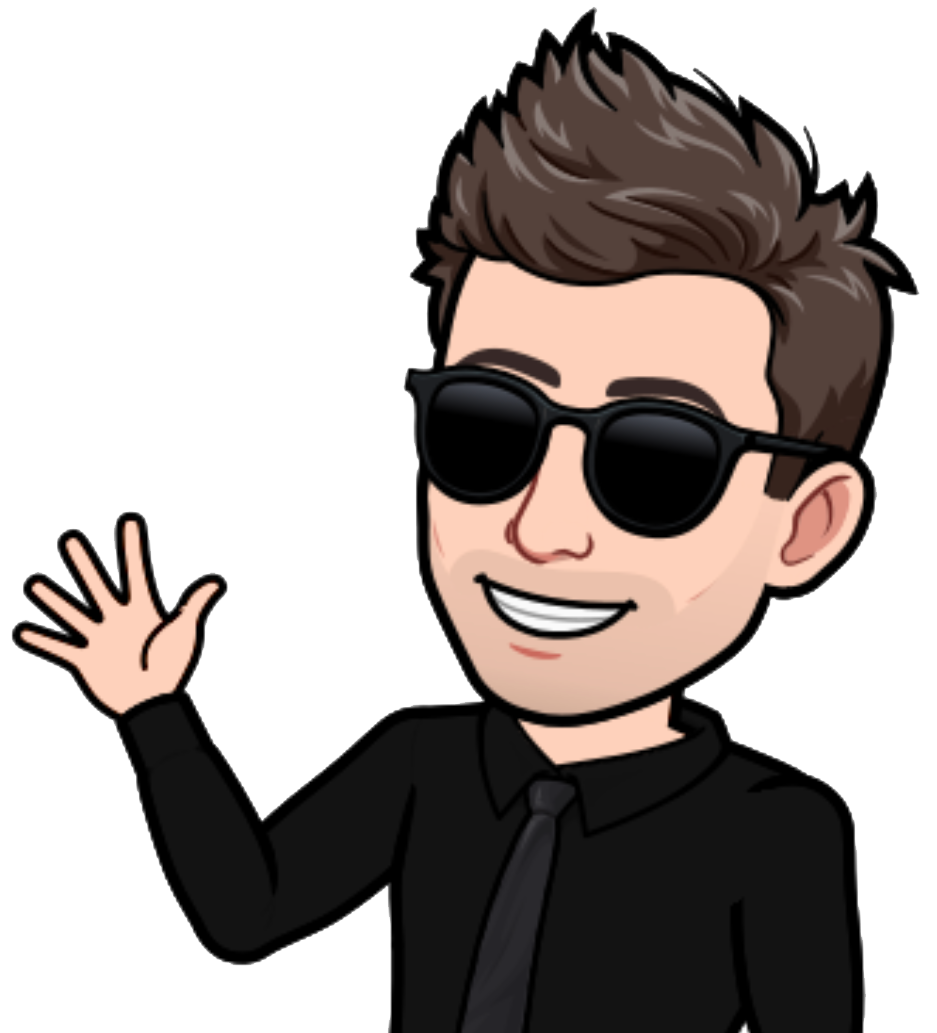
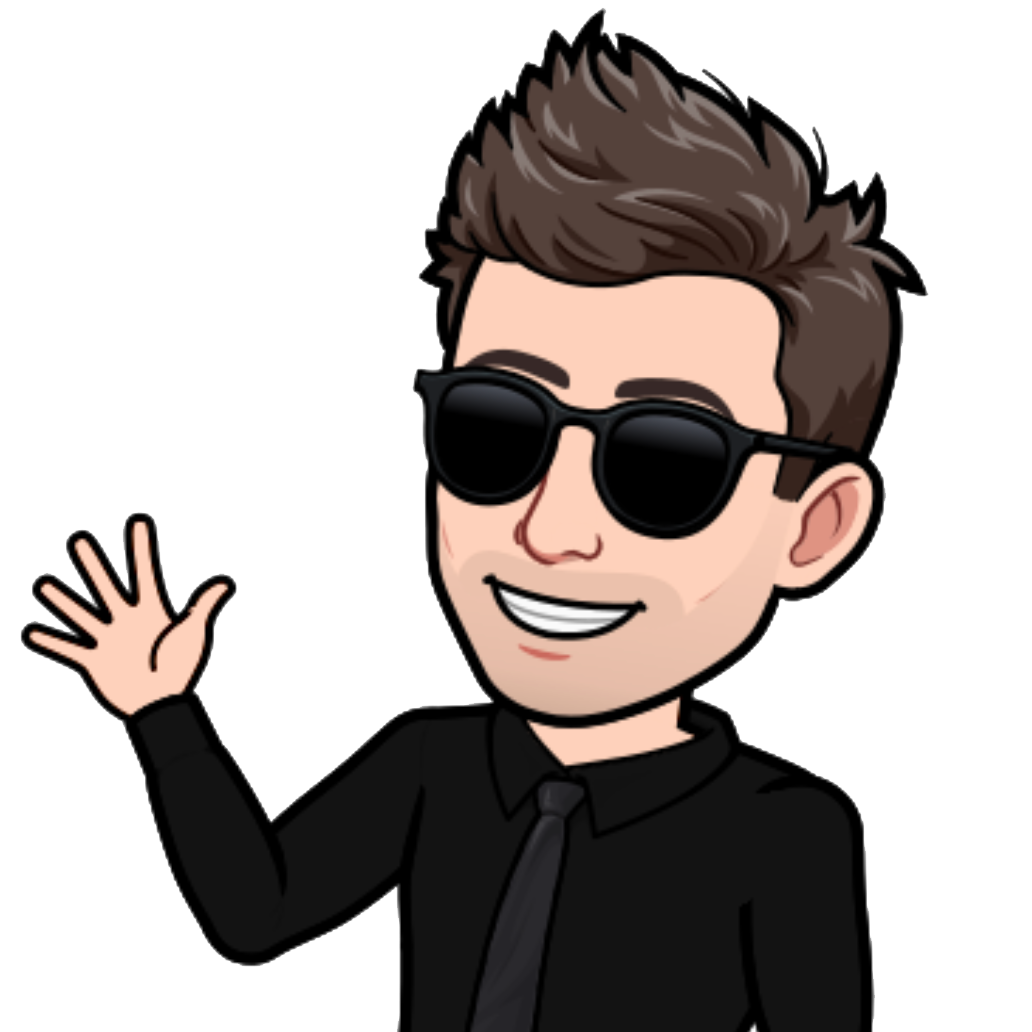
Hero layout

diff --git a/index.html b/index.html
@@ -10,35 +10,37 @@
 
         <title>Joseph Wilde | Front-End Developer</title>
 
+		<link rel="shortcut icon" href="images/jw_favicon.png" />
 		<link rel="stylesheet" href="/dist/style.css" />
 		<script defer src="/dist/script.js"></script>
 	</head>
-	<body class="mainbody">
+	<body>
 		<header>
-			<h1>JW</h1>
+			<a href="#"><h1>JW</h1></a>
 			<nav>
 				<a href="#">Projects</a>
 				<a href="#">Blog</a>
 				<a href="#">Contact</a>
 			</nav>
 		</header>
-		<main class="hero">
-			<section class="hero__personal">
+		<section class="hero">
+			<div class="hero__personal">
 				<h2>Hey, I'm Joe</h2>
 				<p>Quisque arcu velit, luctus ac pellentesque eu, semper quis odio. Morbi ante velit, luctus eu tellus et, ornare mollis elit. Donec interdum, quam eu u----llamcorper volutpat, justo mauris fringilla lectus, at luctus nunc velit viverra nisl. Aenean non nisi quam. Pellentesque habitant morbi tristique senectus et netus et malesuada fames ac turpis egestas. Pellentesque sit amet dolor mollis, porta erat vitae, sollicitudin nunc. Aenean suscipit vitae tortor sit amet bibendum.</p>
-				<div class="hero__personal--socials">
-					<a href="https://github.com/RazeUrWeapon"><img src="images/github_icon.png" alt=""></a>
-					<a href="https://www.linkedin.com/in/joseph-michael1/"><img src="images/linkedin_icon.png" alt=""></a>
-					<a href="https://www.instagram.com/thejosephmichael/"><img src="images/ig_icon.png" alt=""></a>
-					<a href="https://twitter.com/Ra5eUrWeapon"><img src="images/twitter_icon.png" alt=""></a>
-				</div>
-				<div class="hero_perseonal--buttons">
-
-				</div>
-			</section>
-			<section class="hero__image">
-				<img src="images/bitmoji_profile.png" alt="" class="hero__image--bitmoji">
-			</section>
-		</main>
+			</div>
+			<div class="hero__socials">
+				<a href="https://github.com/RazeUrWeapon"><img src="images/github_icon.png" alt=""></a>
+				<a href="https://www.linkedin.com/in/joseph-michael1/"><img src="images/linkedin_icon.png" alt=""></a>
+				<!-- <a href="#"><img src="images/ig_icon.png" alt=""></a> -->
+				<a href="https://twitter.com/Ra5eUrWeapon"><img src="images/twitter_icon.png" alt=""></a>
+			</div>
+			<div class="hero__buttons">
+				<a href="#" class="hero__buttons--projects button-style">My Projects</a>
+				<a href="#" class="hero__buttons--journey button-style">My Coding Journey</a>
+			</div>
+			<div class="hero__image">
+				<img src="images/bitmoji_profile.png" alt="">
+			</div>
+		</section>
 	</body>
 </html>

diff --git a/src/scss/components/hero.scss b/src/scss/components/hero.scss
@@ -2,48 +2,66 @@
 
 .hero {
     display: grid;
-    grid-template-columns: repeat(2, 1fr);
-    margin-top: rem(50);
+    grid-template-columns: 2fr 1fr;
+    grid-template-rows: 1fr rem(70);
+    grid-row-gap: rem(10);
+    max-width: rem(1280);
+    margin: 10% auto;
 
     &__personal {
+        margin-right: rem(120);
         h2 {
+            grid-column: 1 / 2;
+            grid-row: 1 / 2;
             margin-bottom: rem(20);
-            font-size: rem(32);
+            font-size: rem(35);
         }
 
         p {
+            grid-column: 1 / 2;
+            grid-row: 2 / 3;
             margin-bottom: rem(40);
-            font-size: rem(19);
-        }
-
-        &--socials {
-            display: flex;
-            img {
-                width: rem(50);
-                height: rem(50);
-                margin-right: rem(20);
-                border-radius: 50%;
-                border: 1px solid var(--dkgray);
-                transition: ease-in-out 400ms;
-            }
-
-            img:hover {
-                box-shadow: 0 0 12px 2px var(--ltgreen);
-            }
+            font-size: rem(22);
+            line-height: 1.5;
         }
     }
 
+    &__socials {
+        grid-column: 2 / 3;
+        grid-row: 2 / 3;
+        justify-self: center;
+
+        img {
+            width: rem(45);
+            // margin-right: rem(20);
+            border-radius: 50%;
+            transition: ease-in-out 300ms;
+        }
+
+        img:hover {
+            box-shadow: 0 0 5px 1px var(--ltgreen);
+            background-color: var(--ltgreen);
+
+        }
+    }
+
+    &__buttons {
+        grid-row: 2 / 3;
+        margin-top: rem(14);
+    }
+
     &__image {
-        display: flex;
-        margin: auto;
-        width: rem(400);
-        height: rem(400);
-        background-color: var(--white);
+        grid-column: 2 / 3;
+        grid-row: 1 / 2;
+        width: rem(350);
+        height: rem(350);
+        justify-self: center;
+        align-self: center;
         border-radius: 50%;
         overflow: hidden;
  
         img {
-
+            width: 100%;
         }
     }
 }

diff --git a/src/scss/global/boilerplate.scss b/src/scss/global/boilerplate.scss
@@ -5,6 +5,7 @@ html {
 	font-size: 100%;
 	background: url(../../../images/bg_img.svg) no-repeat center bottom fixed;
 	background-size: cover;
+	
 }
 
 *,
@@ -26,26 +27,22 @@ a:link {
 }
 
 body {
-	max-width: rem(1150);
 	margin: auto;
+	padding: 0 rem(20);
 	font-family: var(--body);
-	line-height: 1.5;
 	color: var(--white);
 }
 
-header {
-	h1 {
-		font-family: var(--heading);
-		font-weight: 400;
-		font-size: rem(38);
-	}
-}
+.button-style {
+		margin-right: rem(25);
+		padding: rem(14);
+		border: 1px solid var(--gray);
+		font-weight: 500;
+		text-transform: uppercase;
+		transition: ease-in-out 300ms;
 
-.test {
-	content: "";
-    display: block;
-    height: 2px;
-    width: 0;
-    background: transparent;
-    transition: .5s ease;
+	&:hover {
+		box-shadow: 0 0 5px 1px var(--ltgreen);
+		border: 1px solid var(--ltgreen);
+	}
 }

diff --git a/src/scss/components/header.scss b/src/scss/components/header.scss
@@ -2,9 +2,17 @@
 
 header {
     display: flex;
+    margin: 0 auto;
+    padding-top: rem(20);
+    max-width: rem(1920);
     justify-content: space-between;
     align-items: center;
-    padding-top: rem(20);
+    
+    h1 {
+		font-family: var(--heading);
+		font-weight: 400;
+		font-size: rem(38);
+	}
     nav {
         a {
             margin-left: rem(20);

diff --git a/src/scss/global/variables.scss b/src/scss/global/variables.scss
@@ -5,7 +5,9 @@
     --graygreen: hsl(193,75%,14%);
     --cyan: hsl(178,100%,30%);
     --ltgreen: hsl(159,92%,56%);
+    --ltgreenbg: hsl(159,92%,40%);
     --ltgray: hsl(173,41%,87%);
+    --gray: hsl(0,0%,45%);
     --dkgray: hsl(330,3%,12%);
 
     //Fonts

diff --git a/src/scss/components/_index.scss b/src/scss/components/_index.scss
@@ -1,3 +1,2 @@
 @forward 'header';
-@forward 'landingpage';
 @forward 'hero';

diff --git a/src/js/script.js b/src/js/script.js
@@ -1,0 +1,1 @@
+console.log('Test Passed');
